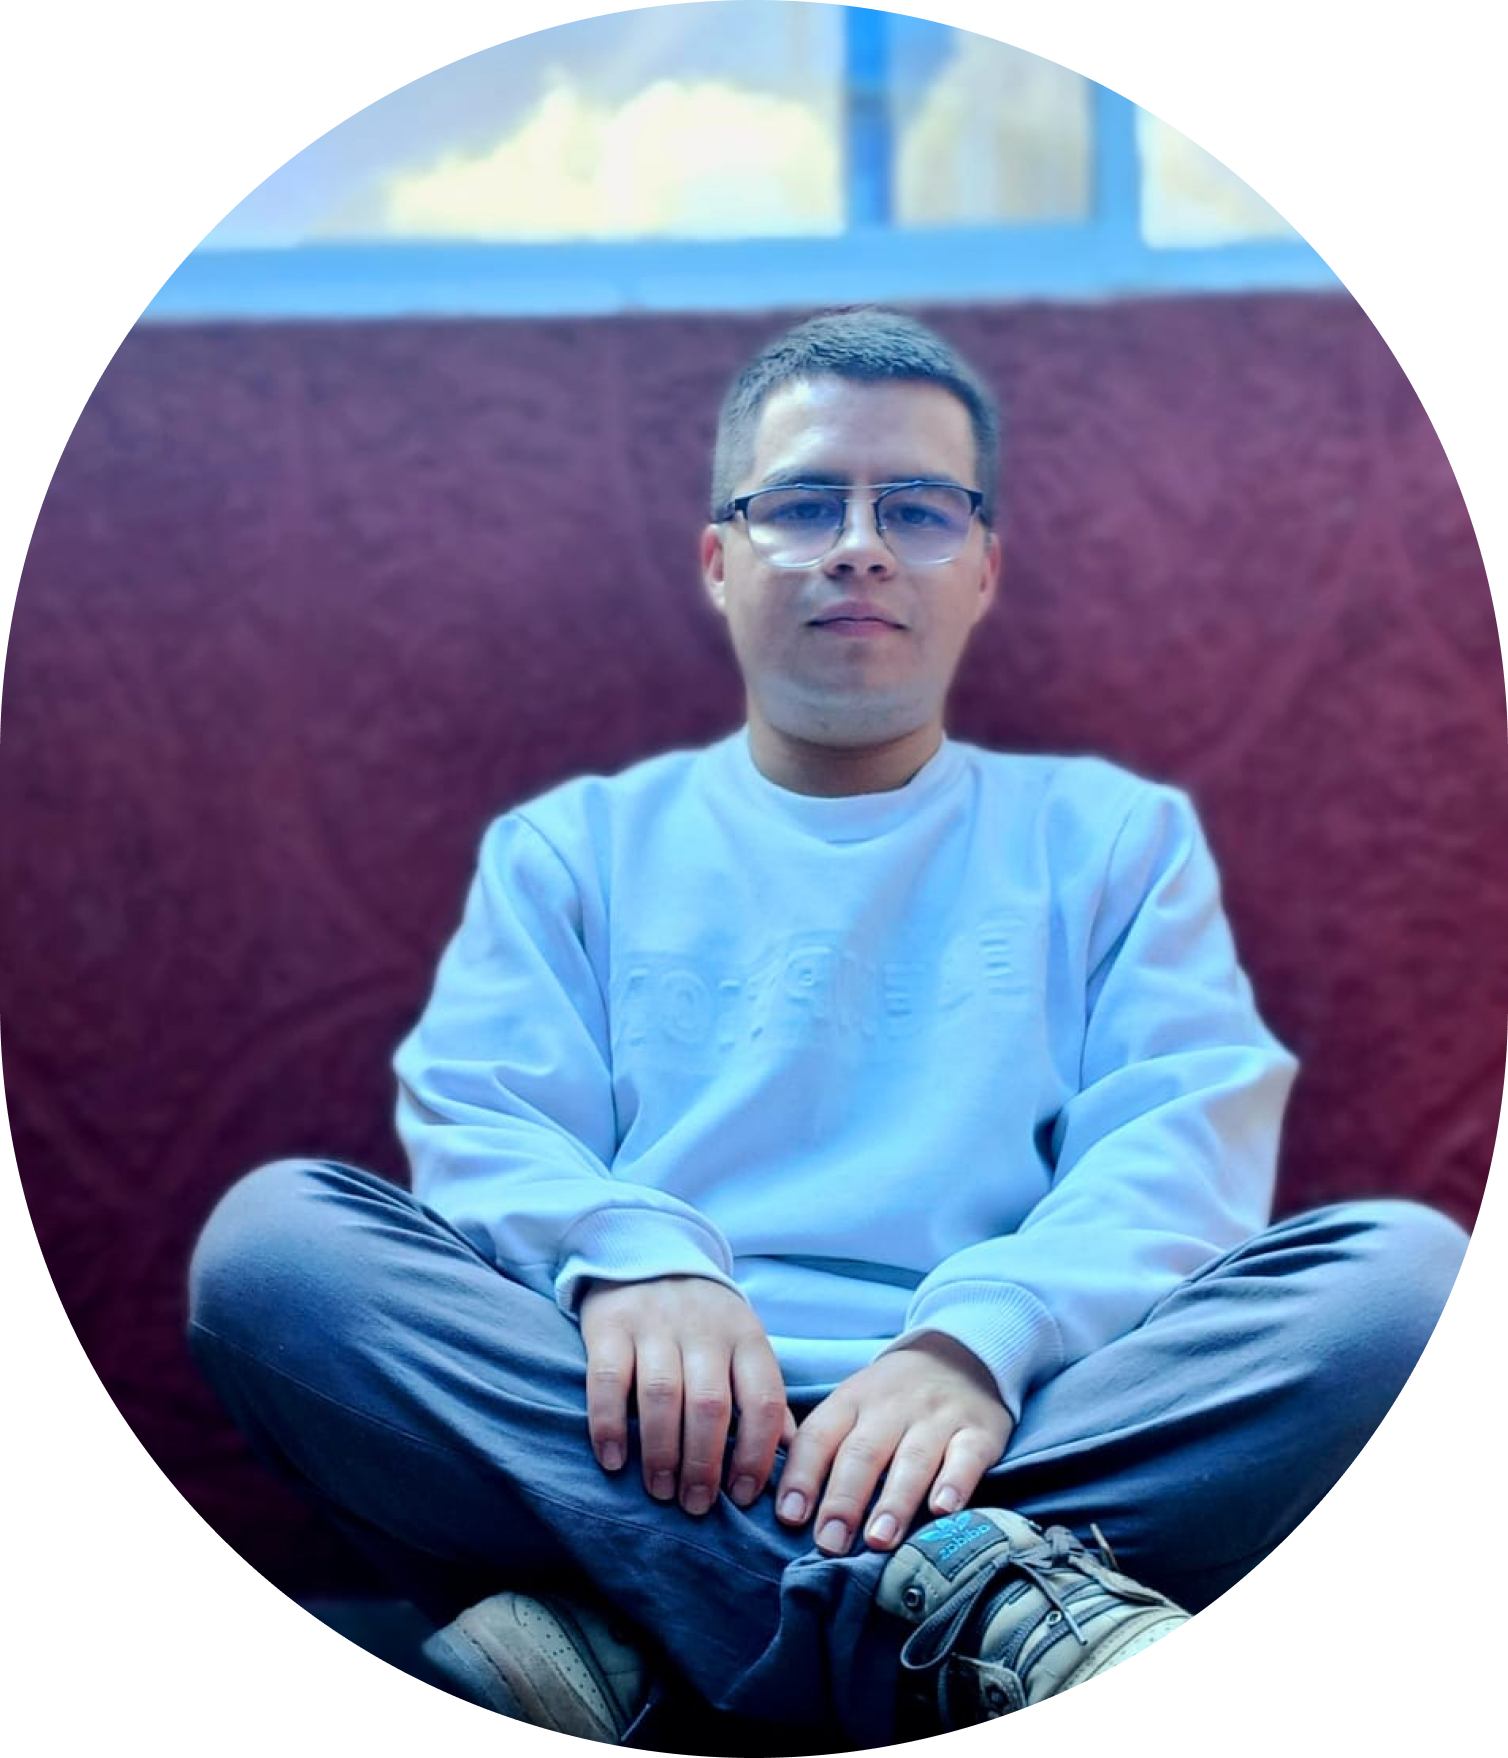
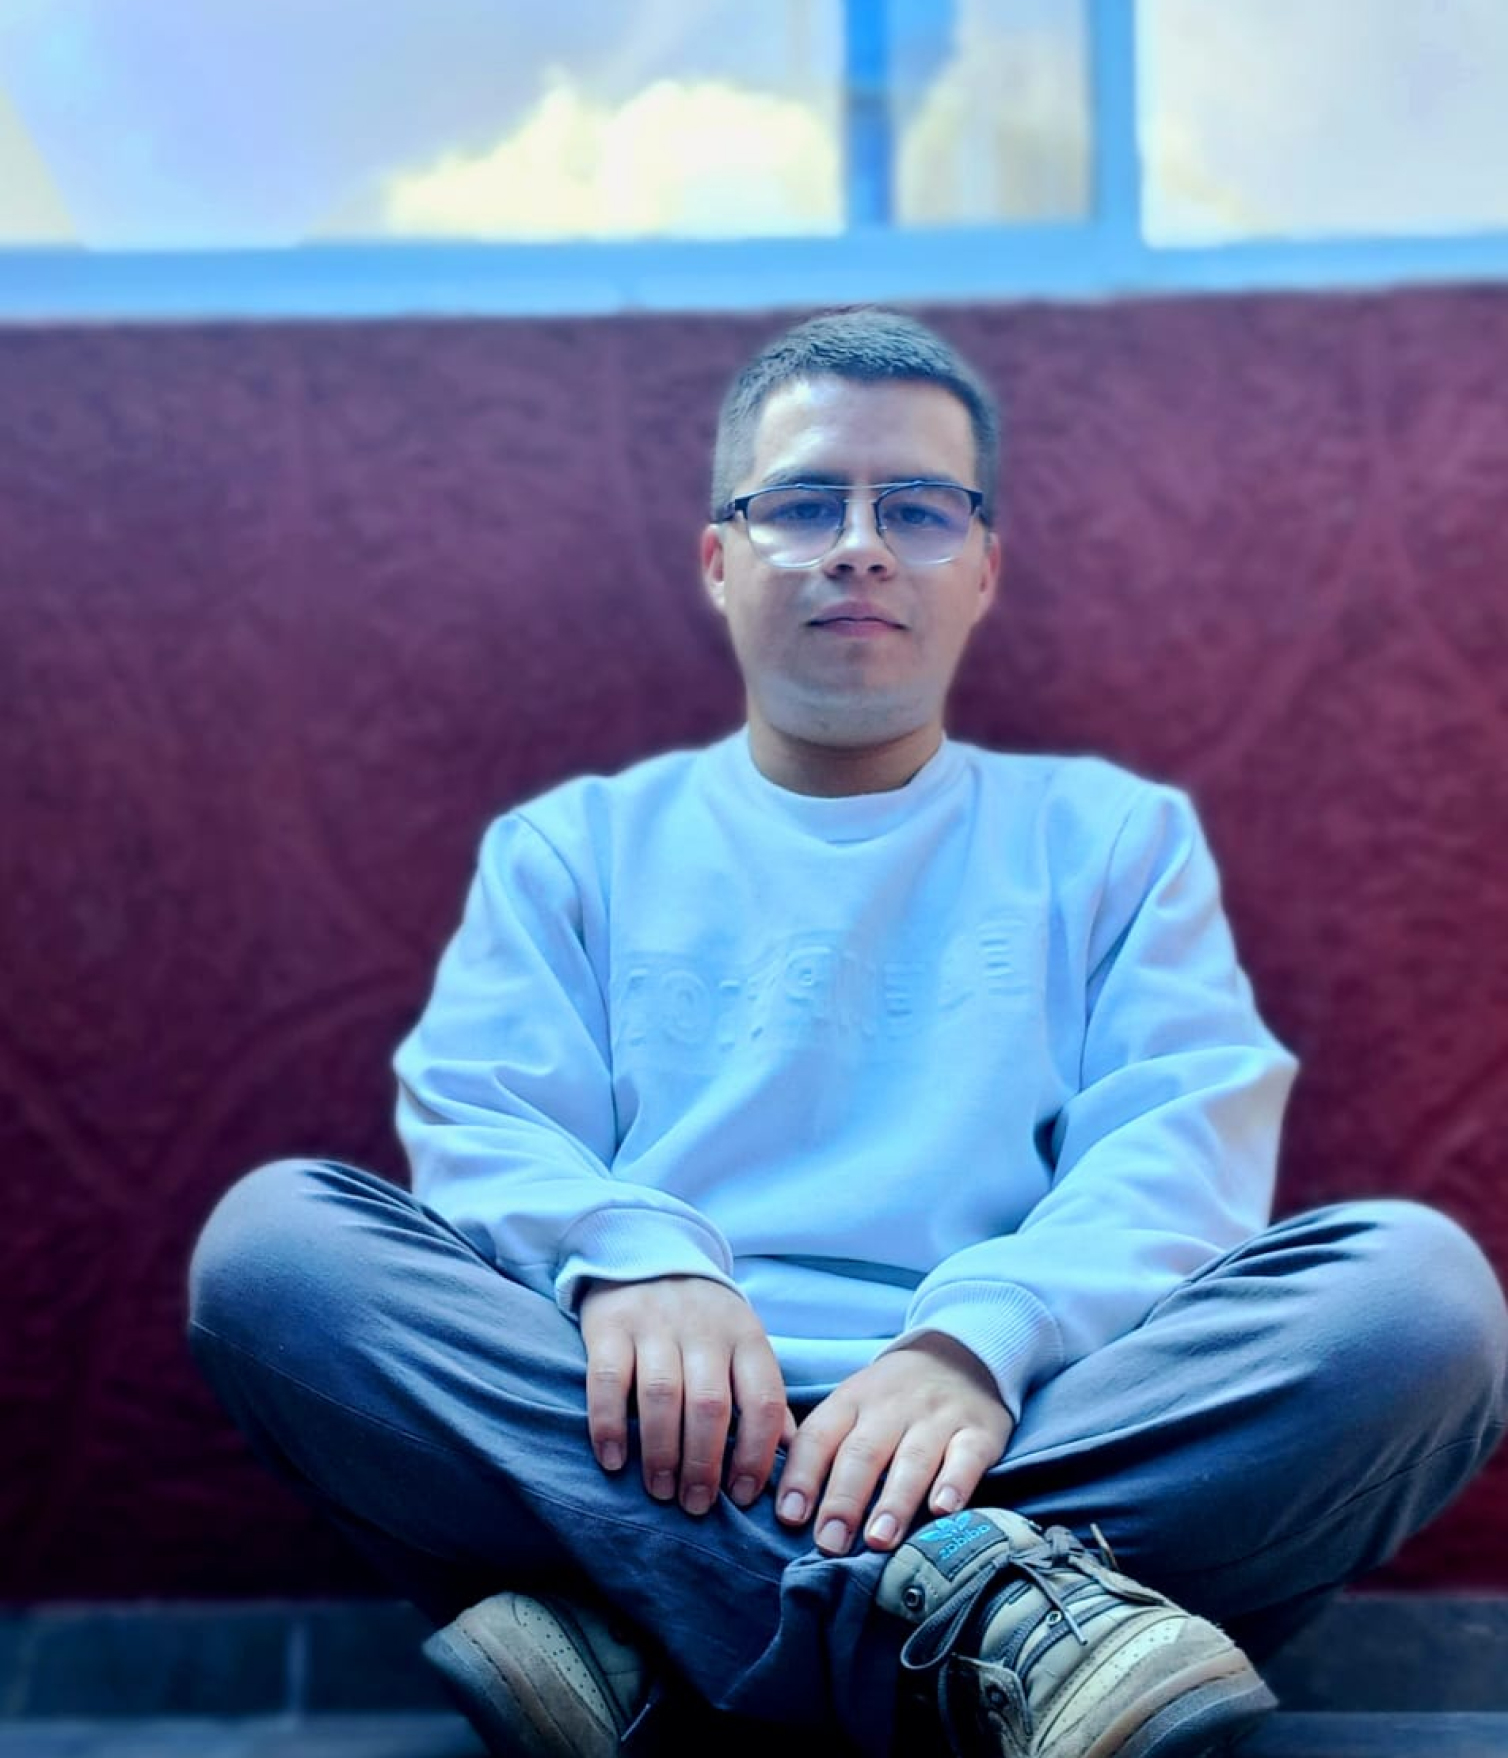
aboutme section

diff --git a/src/components/Aboutme.tsx b/src/components/Aboutme.tsx
@@ -1,22 +1,23 @@
 import Image from 'next/image';
 import { profile } from '../assets';
+import Button from './Button';
 
 const Aboutme = () => (
   <section className='relative py-12'>
-    <div className='mx-auto max-w-screen-xl px-4'>
-      <section className='flex flex-col items-center justify-between gap-8 md:flex-row'>
-        <div className='md:w-1/3'>
+    <div className='px-4'>
+      <section className='flex flex-col items-center  justify-between gap-8 md:flex-row'>
+        <div className='md:order-2 md:w-1/3'>
           <Image
             src={profile}
             alt='Foto de Perfil'
-            className='mx-auto h-auto w-full rounded-full object-cover mix-blend-difference ss:h-96 ss:w-96 md:mx-0 md:mr-6'
+            className='mx-auto h-[50%] w-[100%] rounded-md object-cover mix-blend-difference'
           />
         </div>
         <div className='flex flex-col gap-6 md:w-2/3'>
-          <h2 className='text-center text-4xl font-medium text-dimWhite md:text-left'>
+          <h2 className='heading2 font-medium text-dimWhite'>
             Yeferson Olarte Roncancio
           </h2>
-          <p className='paragraph text-center text-lg md:text-left'>
+          <p className='paragraph max-w-[650px]'>
             Soy un desarrollador web apasionado por aprender y crear soluciones
             innovadoras utilizando las últimas tecnologías frontend. Mi
             experiencia incluye trabajar con React, Next.js, JavaScript, HTML y
@@ -24,10 +25,16 @@ const Aboutme = () => (
             desafíos y oportunidades para crecer en mi carrera y mejorar mis
             habilidades en las tecnologías frontend.
           </p>
+          <div className='relative z-50'>
+            <Button type='secondary' href='#contacto'>
+              Contáctame
+            </Button>
+          </div>
         </div>
       </section>
     </div>
 
+    {/* Gradient decoration */}
     <div className='pink__gradient absolute top-0 z-[0] h-[35%] w-[90%]' />
     <div className='withe__gradient absolute bottom-40 z-[1] h-[80%] w-[80%] rounded-full' />
     <div className='blue__gradient absolute right-20 bottom-20 z-[0] h-[35%] w-[50%]' />

diff --git a/src/pages/index.tsx b/src/pages/index.tsx
@@ -1,6 +1,4 @@
 import Head from 'next/head';
-import Image from 'next/image';
-import { Inter } from '@next/font/google';
 import styles from '../styles/style';
 import { Aboutme, Hero, Navbar } from '../components';
 
@@ -18,27 +16,20 @@ export default function Home() {
         <meta name='viewport' content='width=device-width, initial-scale=1' />
         <link rel='icon' href='/logo.svg' />
       </Head>
-      <div className='w-full overflow-hidden bg-primary '>
-        <header className={`${styles.paddingX} ${styles.flexCenter}`}>
-          <div className={`${styles.boxWidth}`}>
+      <div className='overflow-hidden bg-primary '>
+        <div className='boxWidth'>
+          <header className={`${styles.paddingX} ${styles.flexCenter}`}>
             <Navbar />
-          </div>
-        </header>
+          </header>
 
-        <section className={`bg-primary ${styles.flexStart}`}>
-          <article className={`${styles.boxWidth}`}>
+          <section className={`bg-primary ${styles.flexStart}`}>
             <Hero />
-          </article>
-        </section>
-
-        <main className={`bg-primary ${styles.flexStart} ${styles.paddingX}`}>
-          <section className={`${styles.boxWidth}`}>
-            {/* <Stats /> <Business /> <Billing /> <CardDeal /> <Testimonials />{" "}
-          <Clients /> <CTA /> <Footer /> */}
-
-            <Aboutme />
           </section>
-        </main>
+
+          <main className={`bg-primary ${styles.flexStart} ${styles.paddingX}`}>
+            <Aboutme />
+          </main>
+        </div>
       </div>
     </>
   );

diff --git a/src/components/Hero.tsx b/src/components/Hero.tsx
@@ -5,12 +5,9 @@ import styles from '../styles/style';
 import Button from './Button';
 
 const Hero = () => (
-  <section
-    id='inicio'
-    className={`${styles.paddingY} relative flex max-w-7xl flex-col md:flex-row `}
-  >
+  <section id='inicio' className='relative mt-10  flex  flex-col md:flex-row'>
     <section
-      className={`flex flex-1 flex-col items-start px-6  sm:px-16 xl:px-0`}
+      className={`flex flex-1 flex-col items-start gap-6  px-6 sm:px-16 xl:px-0`}
     >
       <article
         className={`bg-accent-gradient flex flex-row items-center rounded-[10px] py-[1rem] px-4`}
@@ -37,7 +34,7 @@ const Hero = () => (
         ¡Disfruta tu visita!
       </p>
 
-      <Button styles='mt-5' href='#proyectos'>
+      <Button type='primary' href='#proyectos'>
         Ver proyectos
       </Button>
     </section>
@@ -52,6 +49,7 @@ const Hero = () => (
       />
     </div>
 
+    {/* Gradients decoration */}
     <div className='pink__gradient absolute top-0 z-[0] h-[35%] w-[90%]' />
     <div className='withe__gradient absolute bottom-40 z-[1] h-[80%] w-[80%] rounded-full' />
     <div className='blue__gradient absolute right-20 bottom-20 z-[0] h-[35%] w-[50%]' />

diff --git a/src/styles/globals.css b/src/styles/globals.css
@@ -77,7 +77,7 @@
 }
 
 .box-shadow {
-  box-shadow: 0px 20px 100px -10px rgba(66, 71, 91, 0.1);
+  box-shadow: 0px 20px 100px -10px rgba(233, 230, 230, 0.822);
 }
 
 .sidebar {
@@ -140,17 +140,36 @@
   filter: blur(750px);
 }
 
+.button-secondary {
+  border: solid;
+  border-image-slice: 1;
+  border-width: 2px;
+  border-image-source: linear-gradient(
+    157.81deg,
+    #def9fa -43.27%,
+    #bef3f5 -21.24%,
+    #9dedf0 12.19%,
+    #7de7eb 29.82%,
+    #5ce1e6 51.94%,
+    #33bbcf 90.29%
+  );
+}
+
 @layer components {
   .paragraph {
     @apply font-poppins text-[18px] font-normal leading-[30.8px] text-dimWhite;
   }
 
   .boxWidth {
-    @apply w-full xl:max-w-[1280px];
+    @apply mx-auto w-full xl:max-w-[1280px];
   }
 
   .heading2 {
     @apply w-full font-poppins text-4xl font-semibold text-white;
+  }
+
+  .button {
+    @apply inline-block px-[1.5rem] py-[1rem] text-lg;
   }
 }
 

diff --git a/src/components/Button.tsx b/src/components/Button.tsx
@@ -1,19 +1,27 @@
 import { ReactNode } from 'react';
 
+type button = 'primary' | 'secondary';
+
 type props = {
-  styles: string;
   children: ReactNode;
-  href?: string;
+  href: string;
+  type: button;
 };
 
-const Button = ({ styles, children, href }: props) => {
+const Button = ({ children, href, type }: props) => {
   return (
-    <button
-      type='button'
-      className={`py-4 px-6 bg-blue-gradient font-poppins font-medium text-[18px] text-slate-900 outline-none ${styles}  rounded-[10px]`}
+    <a
+      href={href}
+      className={` button hover:shadow-xl hover:shadow-dimBlue
+       ${
+         type === 'primary'
+           ? 'button-primary bg-blue-gradient text-primary hover:text-white'
+           : 'button-secondary text-gradient'
+       }
+      `}
     >
-      <a href={href}>{children}</a>
-    </button>
+      {children}
+    </a>
   );
 };
 
